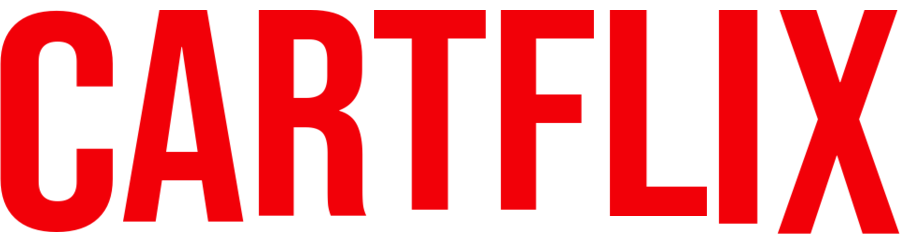
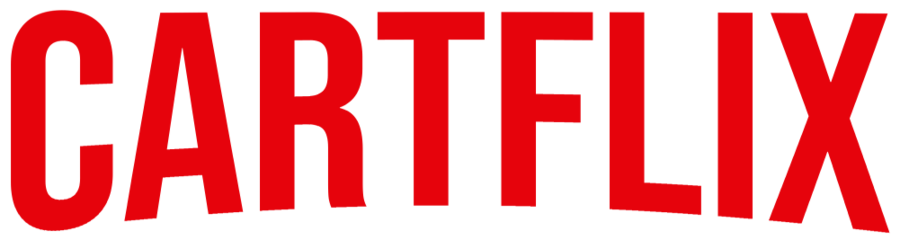
Use uploaded Cartflix title image

diff --git a/app/public/service-worker.js b/app/public/service-worker.js
@@ -1,4 +1,4 @@
-const CACHE_NAME = "cartflix-shell-v8";
+const CACHE_NAME = "cartflix-shell-v9";
 const APP_SHELL = [
   "/",
   "/manifest.webmanifest",